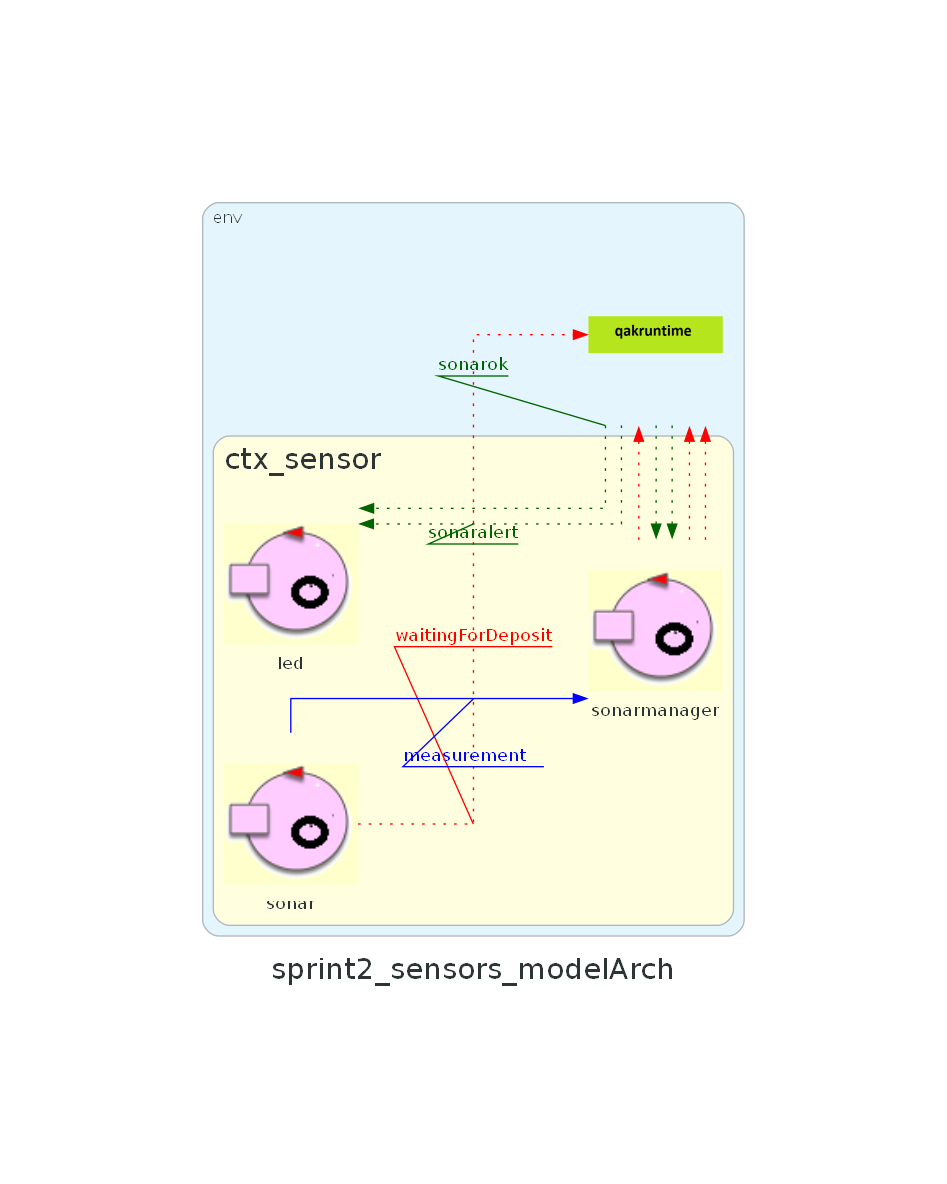
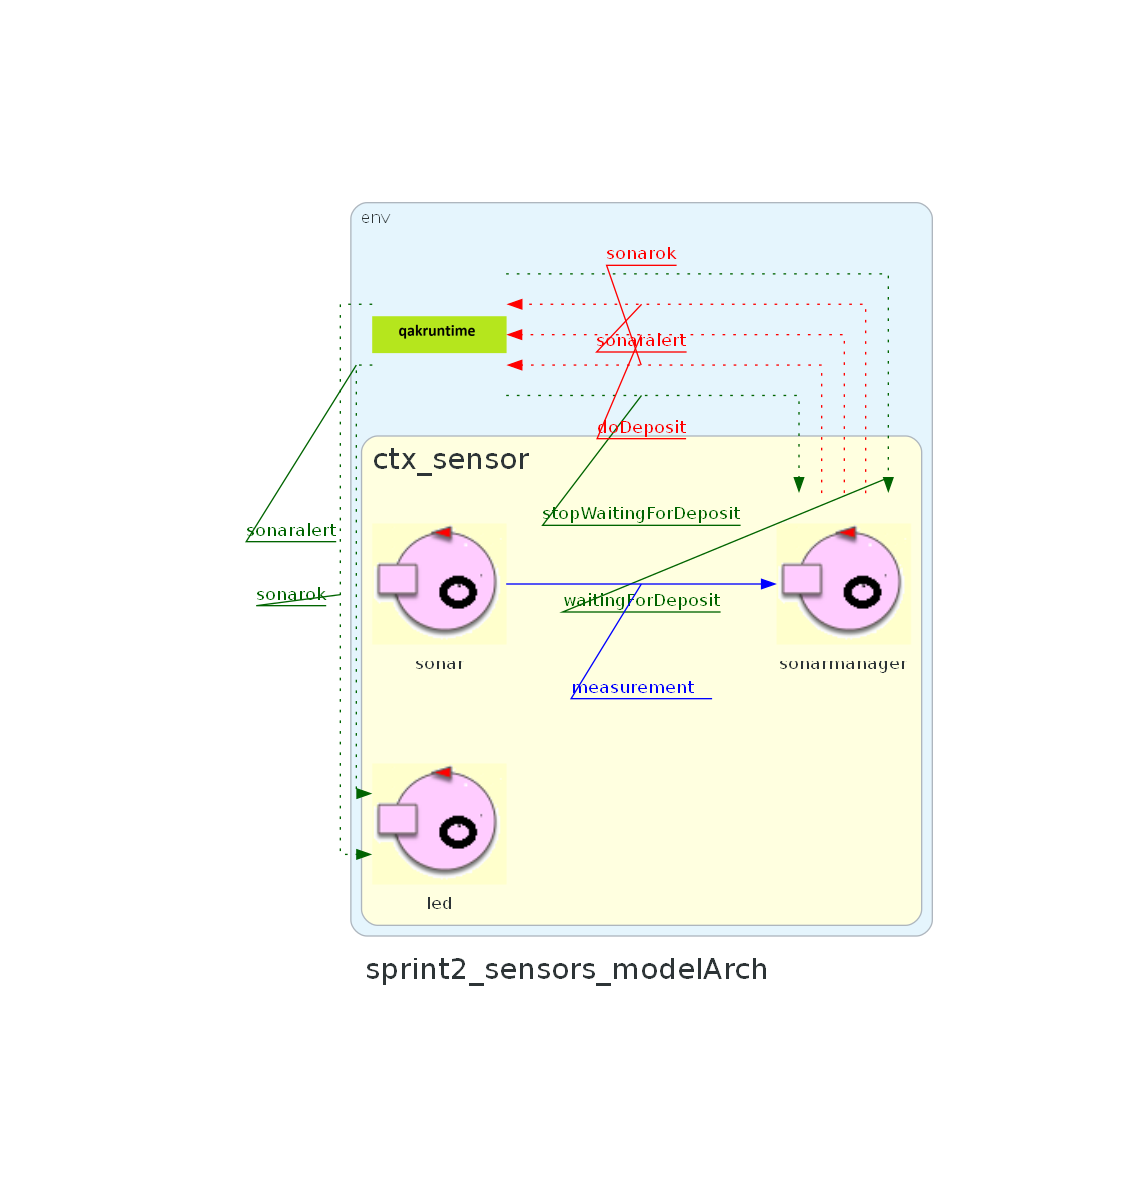
sprint2 final without tests

Changed region(s): [[0.2144, 0.1562, 0.8268, 0.8438], [0.5512, 0.1875, 0.5818, 0.2188]]

diff --git a/Sprint2/userDocs/Sprint2_v0.html b/Sprint2/userDocs/Sprint2_v0.html
@@ -108,16 +108,24 @@
             oppure se sia meglio che il sonar comunichi con cargoservice ogni distanza rilevata.
             Siccome il sistema cargoservice è stato modellato per reagire ad eventi specifici
             piuttosto che a flussi continui di dati, è preferibile che il sonar comunichi con cargoservice
-            solo quando rileva un evento di interesse.
+            solo quando rileva un evento di interesse. Inoltre le comunicazioni dal sonar a cargoservice
+            dipendono dagli eventi già modellati nel sistema cargoservice, nello specifico:
+            <ul>
+              <li>l'evento <i>waitingForDeposit</i> segnala che la richiesta di caricamento è stata accettata da cargoservice e il sonar 
+                avvia la rilevazione dei prodotti;</li>
+              <li>l'evento <i>stopWaitingForDeposit</i> segnala al sonar che il caricamento è terminato e non c'è nessuna
+                richiesta di caricamento in sospeso, arrestando la rilevazione;</li>
+            </ul> 
             <br/>
-            è possibile individuare già ora almeno 2 interazioni principali con <strong>cargoservice</strong>:
+            è possibile individuare già ora almeno altre 2 interazioni principali con <strong>cargoservice</strong>:
             <ul>
               <li>il sonar ha rilevato un prodotto (D < DFREE/2 per minimo 3 secondi) e comunica l'evento <i>doDeposit</i> a cargoservice;</li>
               <li>il sonar rileva un malfunzionamento (D > DFREE per minimo 3 secondi) e comunica l'evento <i>sonaralert</i> a cargoservice.</li>
             </ul>
 
             Sorge spontaneo domandarsi come il componente software sonar possa relazionarsi con il componente hardware sonar.
-            Fortunatamente il committente ha precedentemente fornito uno script Python che si occupa di interfacciarsi con l'hardware e restituire la distanza rilevata, 
+            Fortunatamente il committente ha precedentemente fornito uno script Python che si occupa di interfacciarsi con l'hardware 
+            Raspberrypi mediante la libreria GPIO e restituire la distanza rilevata, 
             ottenendo una misurazione al secondo della distanza <strong>D</strong>.
 
             <pre>
@@ -248,7 +256,7 @@ GPIO.output(25,GPIO.LOW)
 
       <div class="medium-12 text-center remark">
         <img
-          src="../sprint2_sensors_modelarch.png"
+          src="./resources/sprint2_logicalArch.png"
           class="text-center"
           alt="map"
           width="75%"
